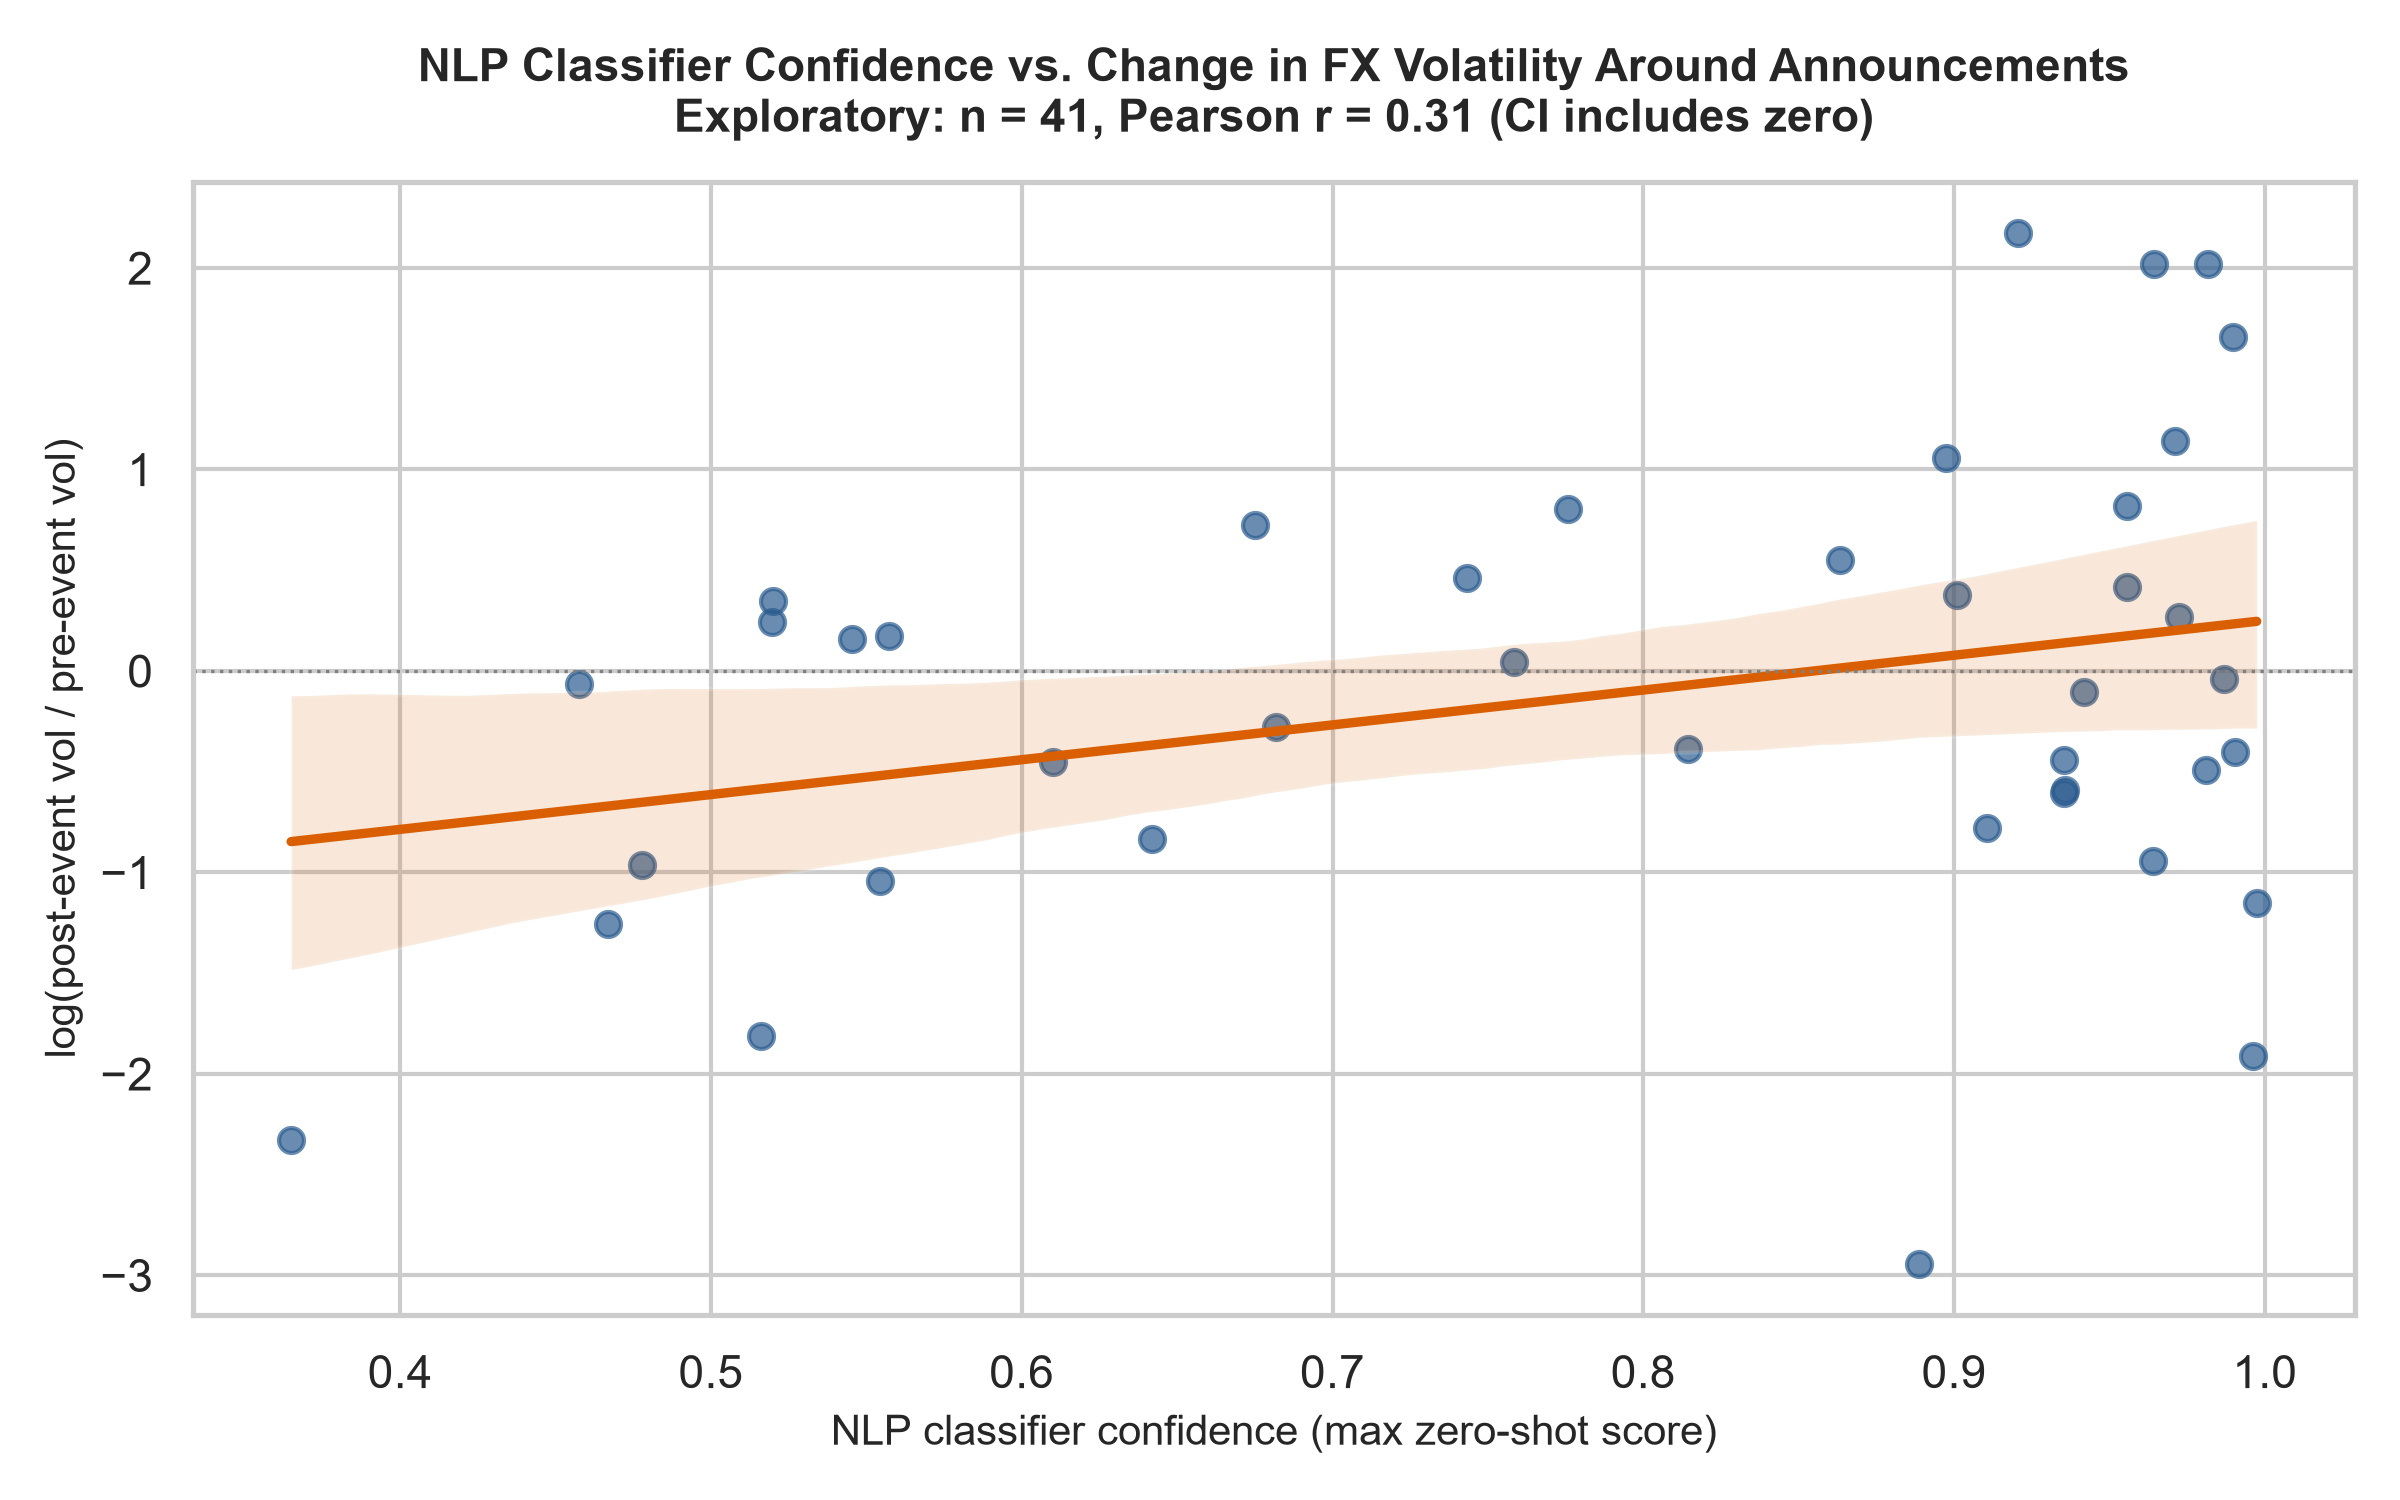
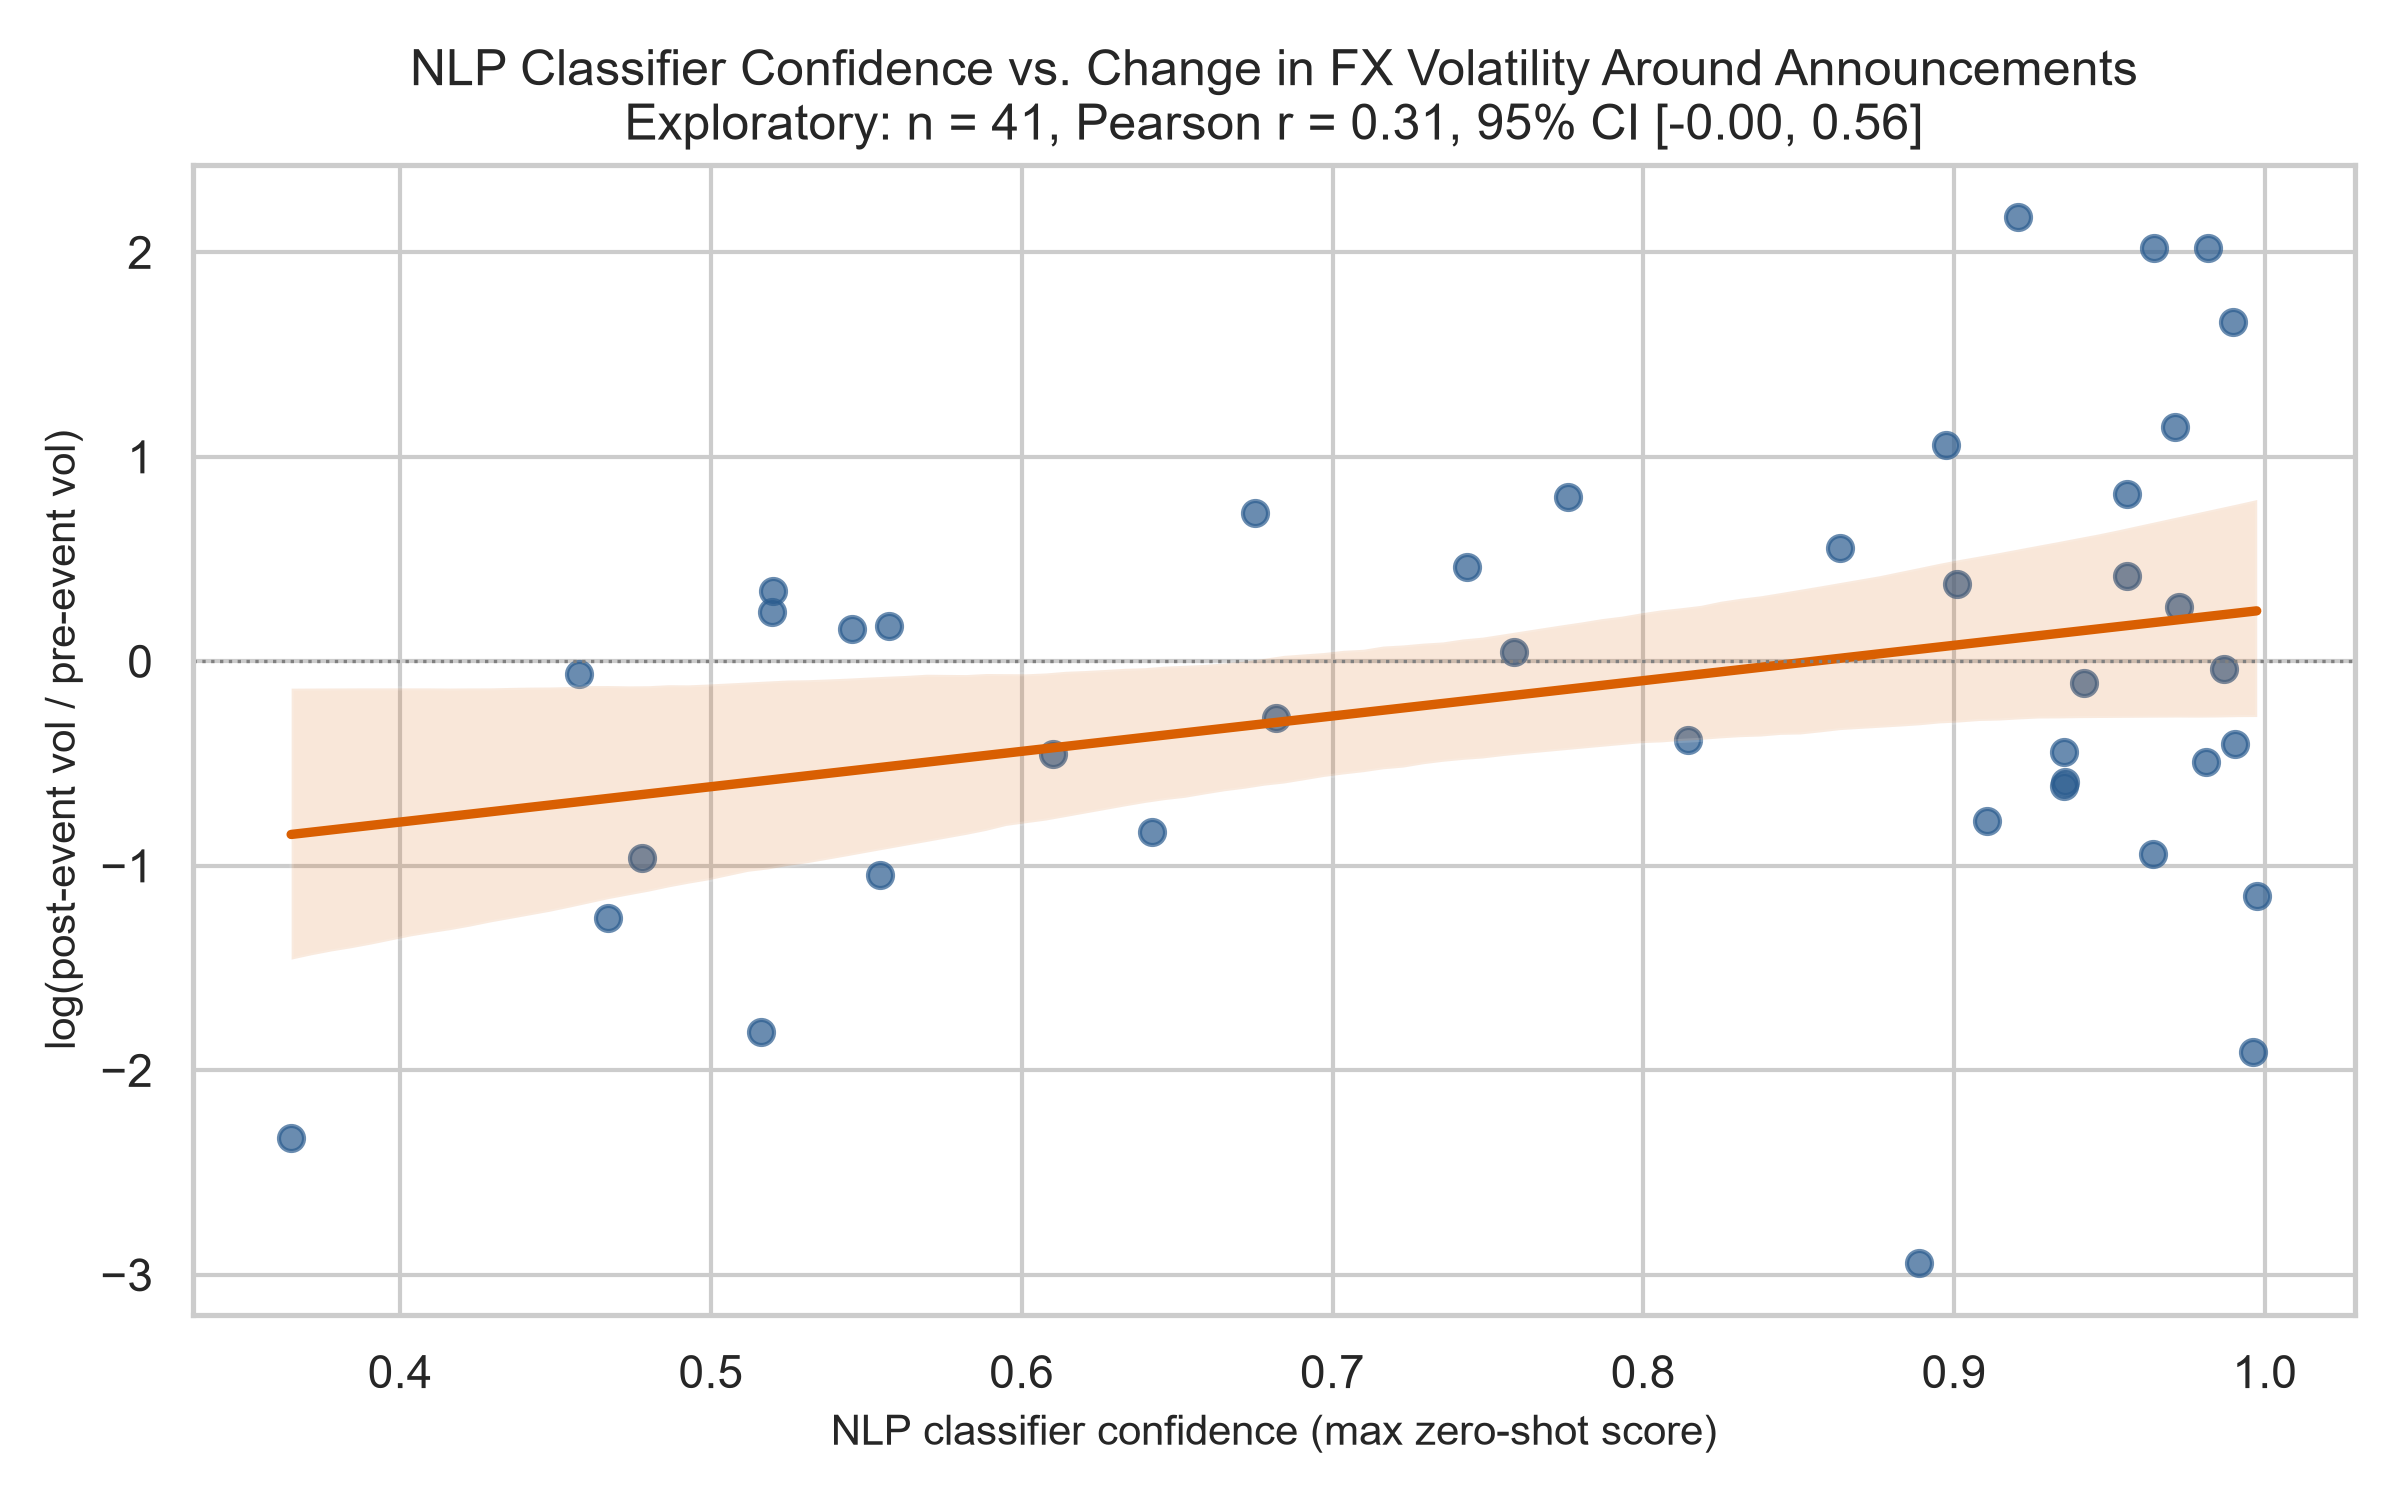
chore: regenerate all outputs; add script to generate README tables

diff --git a/scripts/make_readme_tables.py b/scripts/make_readme_tables.py
@@ -1,0 +1,42 @@
+from pathlib import Path
+
+import pandas as pd
+
+REPORTS = Path("outputs/reports")
+OUTPUT = REPORTS / "readme_tables.md"
+
+def to_markdown(df: pd.DataFrame) -> str:
+    header = "| " + " | ".join(df.columns) + " |"
+    separator = "| " + " | ".join("---" for _ in df.columns) + " |"
+    rows = ["| " + " | ".join(str(v) for v in row) + " |" for row in df.itertuples(index=False)]
+    return "\n".join([header, separator, *rows])
+
+def risk_table() -> str:
+    df = pd.read_csv(REPORTS / "sme_contract_risk_matrix.csv")
+    out = pd.DataFrame({
+        "Scenario": df["scenario_name"],
+        "Horizon (business days)": df["horizon_days"],
+        "Daily volatility": (df["daily_volatility"] * 100).round(2).astype(str) + "%",
+        "95% VaR rate (Bs/USD)": df["var_95_rate"].round(2),
+        "Required buffer (Bs)": df["required_cash_buffer_bs"].map("{:,.0f}".format),
+    })
+    return to_markdown(out)
+
+def robustness_table() -> str:
+    df = pd.read_csv(REPORTS / "robustness_summary.csv")
+    out = pd.DataFrame({
+        "Sample": df["sample"],
+        "n": df["n"],
+        "Pearson r": df["pearson"],
+        "95% CI": "[" + df["ci95_low"].astype(str) + ", " + df["ci95_high"].astype(str) + "]",
+        "Permutation p": df["perm_p"],
+    })
+    return to_markdown(out)
+
+if __name__ == "__main__":
+    text = (
+        "## SME risk matrix (USD 100,000 contract)\n\n" + risk_table()
+        + "\n\n## Robustness of the NLP-volatility correlation\n\n" + robustness_table() + "\n"
+    )
+    OUTPUT.write_text(text, encoding="utf-8")
+    print(text)

diff --git a/outputs/reports/readme_tables.md b/outputs/reports/readme_tables.md
@@ -1,0 +1,22 @@
+## SME risk matrix (USD 100,000 contract)
+
+| Scenario | Horizon (business days) | Daily volatility | 95% VaR rate (Bs/USD) | Required buffer (Bs) |
+| --- | --- | --- | --- | --- |
+| Baseline (observed flexible-regime volatility) | 30 | 1.99% | 14.16 | 232,350 |
+| Stress x1.5 (illustrative) | 30 | 2.99% | 15.49 | 365,102 |
+| Stress x2.0 (illustrative) | 30 | 3.98% | 16.94 | 510,297 |
+| Baseline (observed flexible-regime volatility) | 60 | 1.99% | 15.23 | 339,050 |
+| Stress x1.5 (illustrative) | 60 | 2.99% | 17.27 | 543,410 |
+| Stress x2.0 (illustrative) | 60 | 3.98% | 19.59 | 775,190 |
+| Baseline (observed flexible-regime volatility) | 90 | 1.99% | 16.11 | 426,512 |
+| Stress x1.5 (illustrative) | 90 | 2.99% | 18.78 | 694,321 |
+| Stress x2.0 (illustrative) | 90 | 3.98% | 21.91 | 1,006,665 |
+
+## Robustness of the NLP-volatility correlation
+
+| Sample | n | Pearson r | 95% CI | Permutation p |
+| --- | --- | --- | --- | --- |
+| full sample | 41 | 0.306 | [-0.002, 0.561] | 0.05 |
+| before flexible regime | 30 | 0.305 | [-0.062, 0.6] | 0.104 |
+| flexible regime | 11 | 0.432 | [-0.226, 0.82] | 0.196 |
+| excluding Nov25-Jan26 | 26 | 0.175 | [-0.228, 0.527] | 0.398 |
